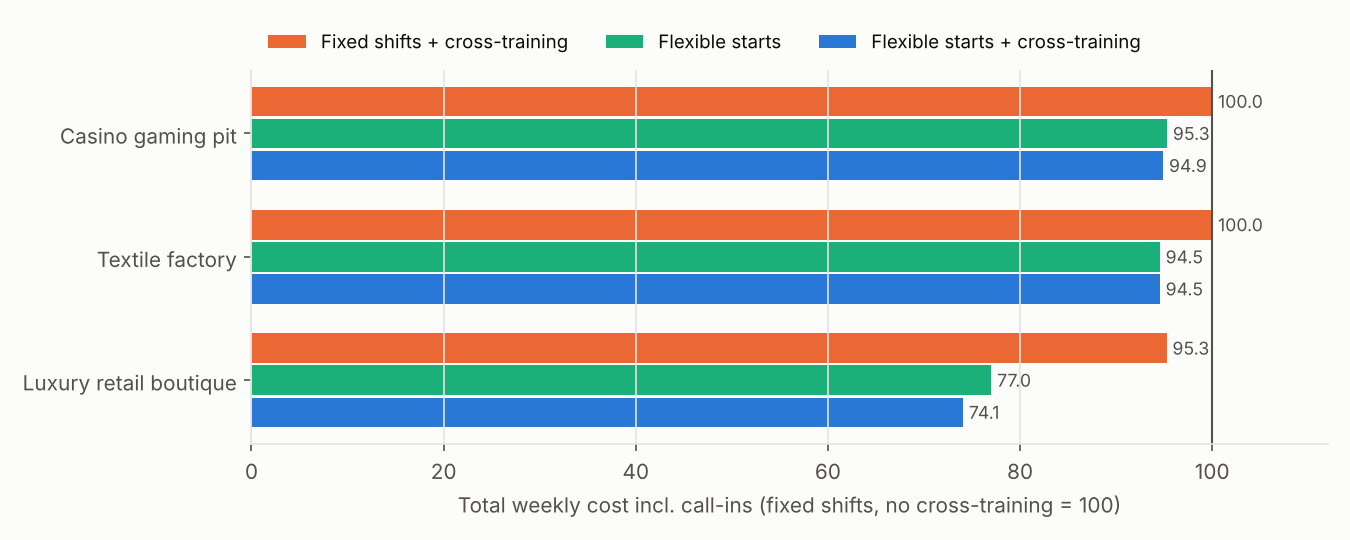
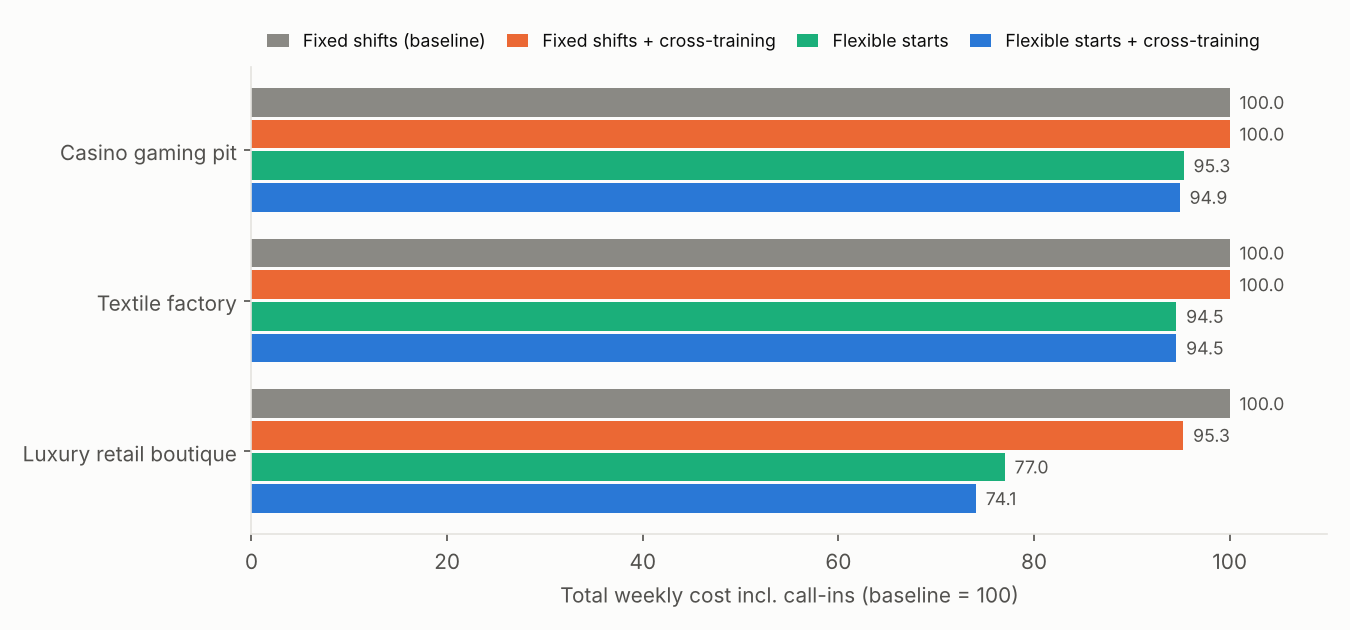
Clearer diagram and figures, UTF-8 file handling, manual CI trigger

diff --git a/src/labor_opt/report.py b/src/labor_opt/report.py
@@ -82,29 +82,28 @@ def fig_coverage(scn, fixed, flex, path: Path, role: str = "dealer"):
 
 
 def fig_policy(tables: dict[str, pd.DataFrame], path: Path):
-    labels = {"Fixed shifts + cross-training": "Fixed shifts + cross-training",
-              "Flexible starts, no cross-training": "Flexible starts",
-              "Flexible starts + cross-training (optimized)": "Flexible starts + cross-training"}
-    colors = [ORANGE, AQUA, BLUE]
+    series = [("Fixed shifts, no cross-training", "Fixed shifts (baseline)", MUTED),
+              ("Fixed shifts + cross-training", "Fixed shifts + cross-training", ORANGE),
+              ("Flexible starts, no cross-training", "Flexible starts", AQUA),
+              ("Flexible starts + cross-training (optimized)", "Flexible starts + cross-training", BLUE)]
     names = list(tables)
-    fig, ax = plt.subplots(figsize=(9, 3.6))
-    h = 0.24
-    for i, (pol, short) in enumerate(labels.items()):
+    fig, ax = plt.subplots(figsize=(9, 4.2))
+    h = 0.19
+    for i, (pol, label, color) in enumerate(series):
         vals = []
         for n in names:
             t = tables[n].set_index("policy")
-            vals.append(100 * t.loc[pol, "total_cost"] / t.loc["Fixed shifts, no cross-training", "total_cost"])
-        y = np.arange(len(names)) + (i - 1) * (h + 0.02)
-        ax.barh(y, vals, height=h, color=colors[i], label=short)
+            vals.append(100 * t.loc[pol, "total_cost"] / t.loc[series[0][0], "total_cost"])
+        y = np.arange(len(names)) + (i - 1.5) * (h + 0.02)
+        ax.barh(y, vals, height=h, color=color, label=label)
         for yy, v in zip(y, vals):
-            ax.text(v + 0.6, yy, f"{v:.1f}", va="center", fontsize=8.5, color=INK2)
-    ax.axvline(100, color=INK2, lw=1)
+            ax.text(v + 1.0, yy, f"{v:.1f}", va="center", fontsize=8.5, color=INK2)
     ax.set_yticks(np.arange(len(names)), labels=names)
     ax.invert_yaxis()
-    ax.set_xlim(0, 112)
-    ax.set_xlabel("Total weekly cost incl. call-ins (fixed shifts, no cross-training = 100)")
-    ax.legend(loc="lower left", bbox_to_anchor=(0, 1.0), ncol=3, fontsize=9)
-    ax.grid(axis="y", visible=False)
+    ax.set_xlim(0, 110)
+    ax.set_xlabel("Total weekly cost incl. call-ins (baseline = 100)")
+    ax.legend(loc="lower left", bbox_to_anchor=(0, 1.0), ncol=4, fontsize=8.5, handlelength=1.2, columnspacing=1.2)
+    ax.grid(False)
     fig.tight_layout()
     fig.savefig(path, dpi=150)
     plt.close(fig)
@@ -168,8 +167,8 @@ def fig_spc(det: dict, threshold: float, wear_start, path: Path):
         sig = det["spc_first_signal"]
         y = float(ch.loc[ch.date == sig, "p"].iat[0] * 100)
         ax.scatter([sig], [y], s=70, facecolor=SURFACE, edgecolor=INK, zorder=5, lw=1.5)
-        ax.annotate("first control-chart signal", (sig, y), xytext=(10, 14), textcoords="offset points",
-                    fontsize=8.5, color=INK)
+        ax.annotate(f"first control-chart signal ({sig:%b %d})", (sig, y), xytext=(28, -42), textcoords="offset points",
+                    fontsize=8.5, color=INK, arrowprops={"arrowstyle": "-", "color": INK2, "lw": 1})
     ax.set_ylabel("defect rate (%)")
     ax.set_ylim(top=max(threshold * 100, float(ch.p.max() * 100)) * 1.08)
     caught = "never flags" if det["threshold_first_flag"] is None else "flags late"
@@ -368,8 +367,8 @@ def build_report(out_dir: str | Path = "reports", time_limit: int = 60) -> dict:
            "P(loss) comes from Monte Carlo over the uncertain uplift (normal, SD 10 points for retail and 8 for the "
            "casino). These examples keep the original case study's currency units.", ""]
 
-    (out / "RESULTS.md").write_text("\n".join(md))
-    (out / "results.json").write_text(json.dumps(results, indent=2, default=_json_default))
+    (out / "RESULTS.md").write_text("\n".join(md), encoding="utf-8")
+    (out / "results.json").write_text(json.dumps(results, indent=2, default=_json_default), encoding="utf-8")
     return results
 
 

diff --git a/src/labor_opt/etl.py b/src/labor_opt/etl.py
@@ -11,6 +11,7 @@ Run it with `labor-opt etl --scenario casino`; .github/workflows/scheduled-etl.y
 from __future__ import annotations
 
 import sqlite3
+from contextlib import closing
 from dataclasses import dataclass, field
 from importlib import resources
 from pathlib import Path
@@ -186,9 +187,9 @@ def load(tables: dict[str, pd.DataFrame], db_path: str | Path) -> dict:
     db_path.parent.mkdir(parents=True, exist_ok=True)
     if db_path.exists():
         db_path.unlink()
-    schema = resources.files("labor_opt").joinpath("sql/schema.sql").read_text()
+    schema = resources.files("labor_opt").joinpath("sql/schema.sql").read_text(encoding="utf-8")
     counts = {}
-    with sqlite3.connect(db_path) as con:
+    with closing(sqlite3.connect(db_path)) as con, con:
         con.executescript(schema)
         for name in LOAD_ORDER:
             df = tables[name]
@@ -201,7 +202,7 @@ def load(tables: dict[str, pd.DataFrame], db_path: str | Path) -> dict:
 
 
 def query(db_path: str | Path, sql: str) -> pd.DataFrame:
-    with sqlite3.connect(db_path) as con:
+    with closing(sqlite3.connect(db_path)) as con:
         return pd.read_sql_query(sql, con)
 
 

diff --git a/tests/test_etl.py b/tests/test_etl.py
@@ -1,4 +1,5 @@
 import sqlite3
+from contextlib import closing
 
 from labor_opt.etl import run_etl
 from labor_opt.roster import solve_roster
@@ -14,7 +15,7 @@ def test_etl_loads_and_reports(retail, tmp_path):
     assert rep.rows_loaded["attendance"] == n_shifts            # one attendance row per scheduled shift
     assert rep.quality["invalid_intervals"] == 0
 
-    with sqlite3.connect(db) as con:
+    with closing(sqlite3.connect(db)) as con:
         assert con.execute("PRAGMA foreign_key_check").fetchall() == []
         absent = con.execute("SELECT COUNT(*) FROM attendance WHERE status='absent'").fetchone()[0]
         assert absent == rep.quality["absences"]

diff --git a/src/labor_opt/config.py b/src/labor_opt/config.py
@@ -168,7 +168,7 @@ def build_workforce(cfg: dict) -> list[Employee]:
 
 
 def load_scenario(path: str | Path) -> Scenario:
-    cfg = yaml.safe_load(Path(path).read_text())
+    cfg = yaml.safe_load(Path(path).read_text(encoding="utf-8"))
     roles = {r: Role(r, float(v["wage"]), v.get("max_on_duty")) for r, v in cfg["roles"].items()}
     templates = [ShiftTemplate(t["name"], int(t["start"]), int(t["length"]), float(t.get("premium", 1.0)))
                  for t in cfg["shift_templates"]]

diff --git a/src/labor_opt/kpi.py b/src/labor_opt/kpi.py
@@ -38,7 +38,7 @@ def retail_kpis(df: pd.DataFrame) -> pd.DataFrame:
 
 
 def load_thresholds(path: str | Path) -> dict:
-    return yaml.safe_load(Path(path).read_text())
+    return yaml.safe_load(Path(path).read_text(encoding="utf-8"))
 
 
 def flag(df: pd.DataFrame, rules: list[dict], entity: str, time: str) -> pd.DataFrame:

diff --git a/README.md b/README.md
@@ -20,7 +20,7 @@ a garment factory (round-the-clock production lines) and a luxury retail boutiqu
 |---|---|---|
 | How much does an optimized roster save? | Mixed-integer program (PuLP + CBC), ~1,700 binary variables | **5.1%** (casino), **5.5%** (textile), **25.9%** (retail) lower weekly cost than fixed shifts |
 | How close to the best possible is it? | Covering-LP lower bound | Casino roster within **0.6%** of the bound; textile matches it |
-| What does one more dealer cost on Friday night? | Re-solving with the block requirement raised | 400 to 1,760 HKD depending on the block |
+| What does one more required dealer cost? | Re-solving with each 6-hour block raised by one | From 400 HKD (Thursday morning, absorbed by an existing shift) to 1,760 HKD (any evening, needs a new shift) |
 | Can we forecast pit traffic? | Negative-binomial regression, rolling-origin backtest | WAPE **0.235** vs 0.340 for same-hour-last-week |
 | How much buffer should we staff? | Newsvendor quantile (call-ins cost 3x) | Staff to P67: under-staffed dealer-hours fall **75 → 49** per week |
 | Did +15% dealers speed up the game? | Randomized experiment, clustered OLS | **+5.45 hands/h** (95% CI 4.32–6.58); planted truth +6.0 |
@@ -33,16 +33,23 @@ Full tables and figures: [`reports/RESULTS.md`](reports/RESULTS.md). Model state
 ## How the pieces connect
 
 ```mermaid
-flowchart LR
-    A[Hourly traffic history] --> B[NB regression forecast]
-    B -->|P67 quantile| C[Table-game / Erlang C<br/>staffing model]
-    C --> D[Hourly requirement]
-    D --> E[Roster MILP<br/>availability, hours, rest, cross-training]
-    E --> F[SQLite warehouse<br/>scheduled ETL]
-    F --> G[KPI flags and<br/>control charts]
-    G --> H[Experiment design<br/>and evaluation]
-    H --> I[Pro-forma decision]
-    I -.next change.-> E
+flowchart TB
+    subgraph plan ["1. Plan demand"]
+        direction LR
+        A["Hourly traffic<br/>history"] --> B["Negative-binomial<br/>forecast"]
+        B -->|"staff to P67"| C["Staffing model<br/>table games, Erlang C"]
+    end
+    subgraph run ["2. Schedule and run"]
+        direction LR
+        D["Hourly<br/>requirement"] --> E["Roster MILP<br/>hours, rest, availability,<br/>cross-training"]
+        E --> F["SQLite warehouse<br/>weekly ETL"]
+    end
+    subgraph learn ["3. Monitor and improve, then feed the next roster"]
+        direction LR
+        G["KPI flags and<br/>control charts"] --> H["Experiments"]
+        H --> I["Pro-forma<br/>decision"]
+    end
+    plan --> run --> learn
 ```
 
 ## Key figures

diff --git a/reports/RESULTS.md b/reports/RESULTS.md
@@ -60,7 +60,7 @@ Total cost = scheduled pay (incl. night premiums and overtime) + call-in cost fo
 | NB regression (mean) | 0.235 | 4.20 | 75.5 | 69.7 |
 | NB regression (P67 for staffing) | 0.256 | 4.56 | 49.2 | 106.2 |
 
-Rostering the forecast week: total cost 369,740, coverage 97.7%, 5 supervisor shifts redeployed to dealing, solved in 0.6s (2,291 variables).
+Rostering the forecast week: total cost 369,740, coverage 97.7%, 5 supervisor shifts redeployed to dealing, solved in 0.5s (2,291 variables).
 
 ![Forecast](figures/forecast_week.png)
 
